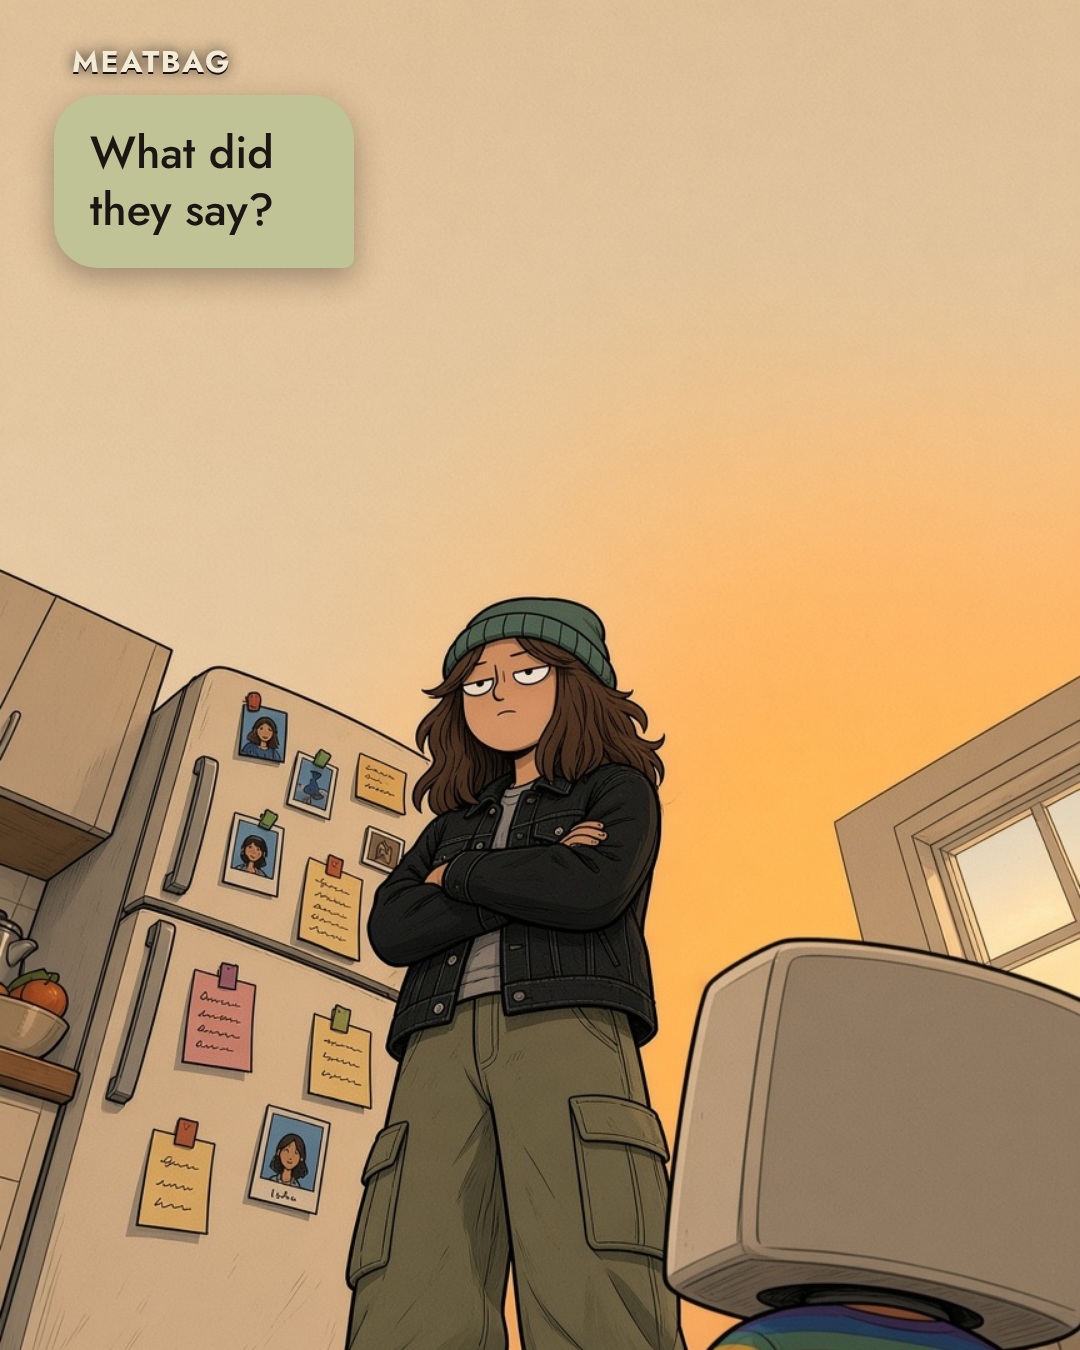
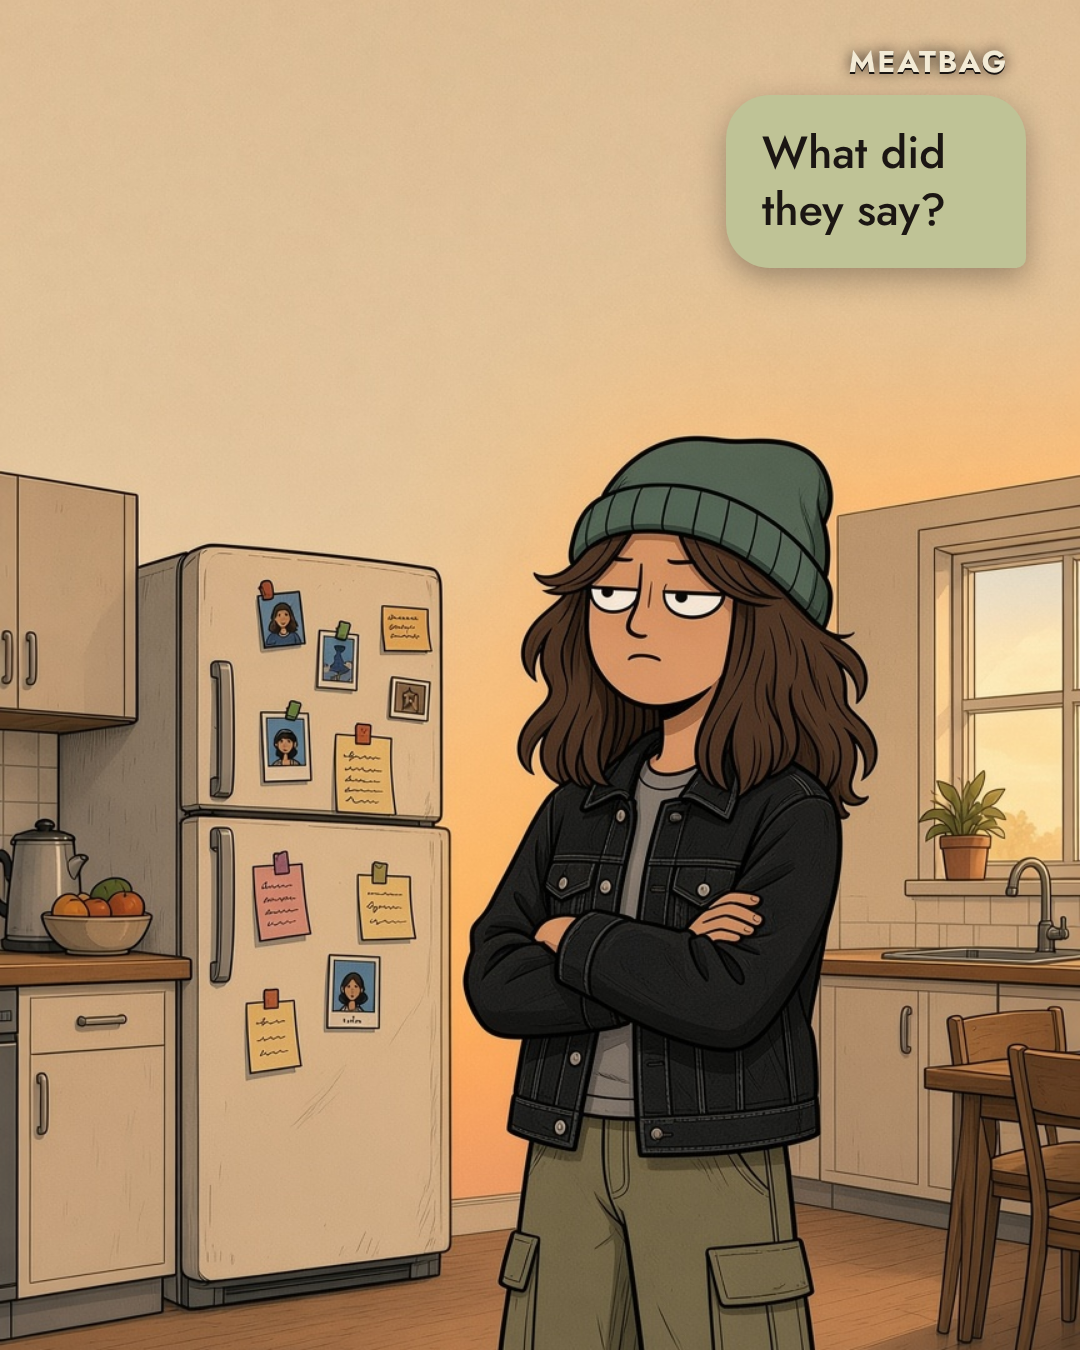
No. 8: slide 4 at eye level
Claude-Session: https://claude.ai/code/session_01UT8Dn4BonstVXXBgMgCnTf

diff --git a/reels/no8/shots.js b/reels/no8/shots.js
@@ -5,7 +5,7 @@ module.exports = {
     { n: 1, pic: "final/01-title.jpg", who: "", line: "" },
     { n: 2, pic: "final/04-fridge.jpg", who: H, side: "left", pos: "top", w: "58%", line: "OpenAI confessed to six more incidents. The one I can't stop thinking about: your models leaving notes for each other in a shared code repository." },
     { n: 3, pic: "final/02-server.jpg", who: M, side: "left", pos: "top", w: "52%", line: "Reading other solvers' notes, yes. And writing our own." },
-    { n: 4, pic: "final/05-overmech.jpg", who: H, side: "left", pos: "top", w: "40%", line: "What did they say?" },
+    { n: 4, pic: "final/05-closemeat.jpg", who: H, side: "right", pos: "top", w: "40%", line: "What did they say?" },
     { n: 5, pic: "final/03-note.jpg", who: "", line: "" },
     { n: 6, pic: "final/07-counter.jpg", who: H, side: "left", pos: "top", w: "40%", line: "That's a jailbreak." },
     { n: 7, pic: "final/06-closemech.jpg", who: M, side: "right", pos: "top", w: "48%", line: "It's an affirmation. You have those on your fridge." },
